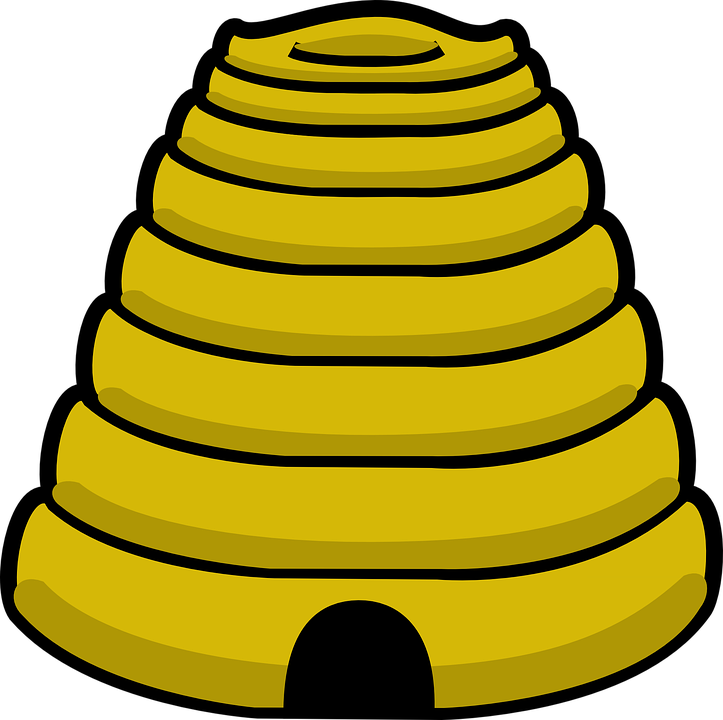
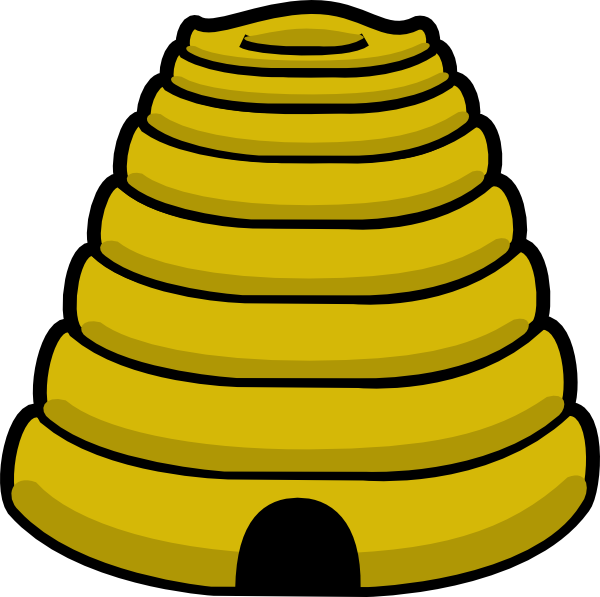
eorh'oer

diff --git a/bees.html b/bees.html
@@ -10,7 +10,7 @@
 <body>
     <div id="container">
         <div class="beehive">
-            <img src=beehive.png width="100" height="100"></div>
+        <img src="beehive.jpg" width="100" height="100"></div>
         <div id="garden"></div>
         <div id="flower1">
             <img src=pinkyellowflower.png width="60" height="60"></div>
@@ -24,6 +24,7 @@
             <img src=pinkyellowflower.png width="60" height="60"></div>
         <div id="flower6">
             <img src=pinkyellowflower.png width="60" height="60"></div>
+    </div>
 </body>
 
 </html>

diff --git a/bees.css b/bees.css
@@ -13,7 +13,7 @@
     left: 405px;
     width: 90px;
     height: 90px;
-    top: 10px;
+    top: 5px;
 }
 
 #garden {
@@ -31,7 +31,6 @@
     height: 50px;
     left: 125px;
     top: 200px;
-
 }
 
 #flower2 {
